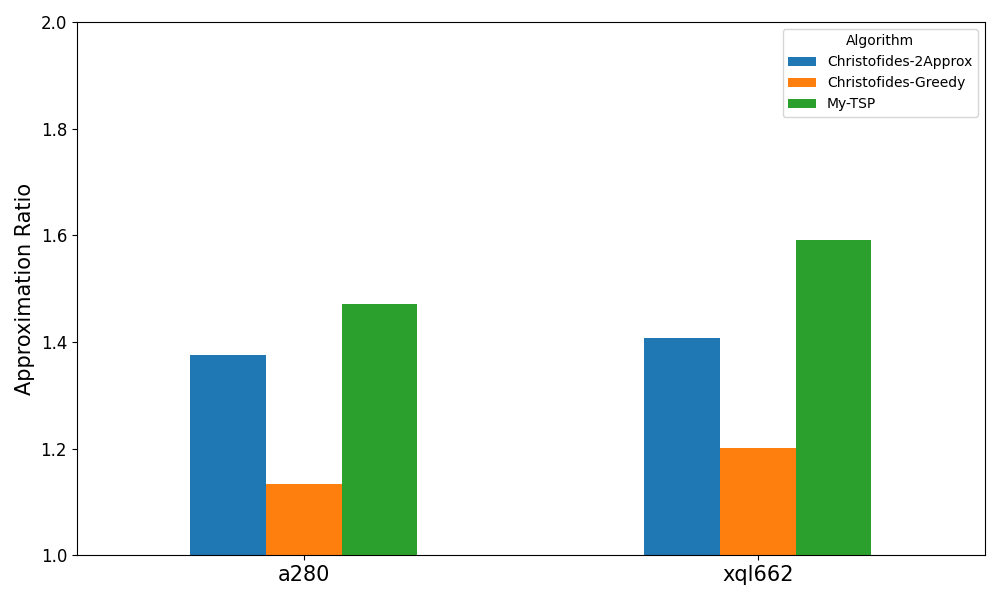
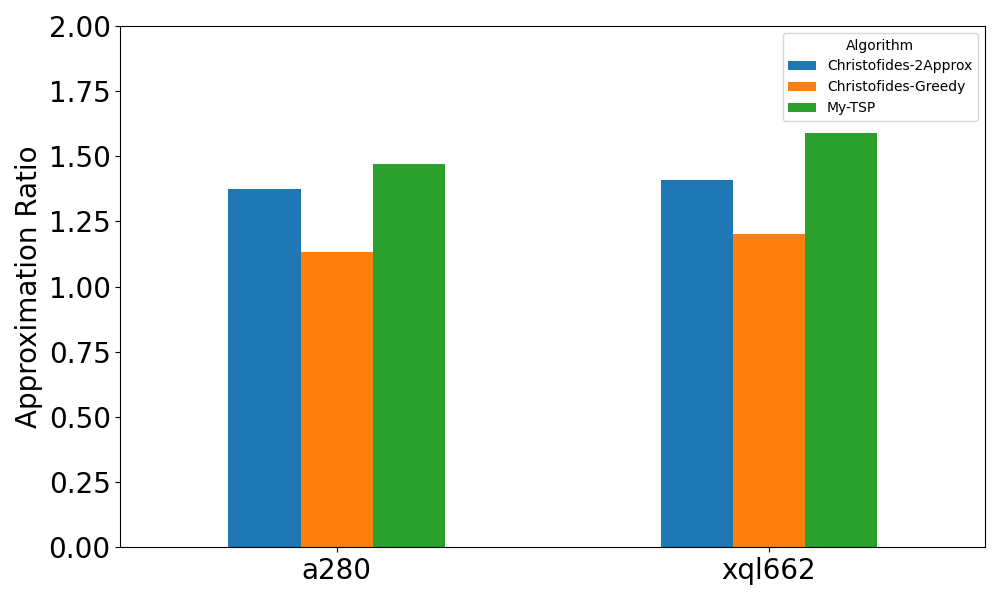
final graph

diff --git a/graph/plot.py b/graph/plot.py
@@ -43,16 +43,17 @@ def plot_grouped_bar(df, value_col, ylabel, filename, ylim=None, log_scale=False
 
     ax = pivot.plot(kind='bar', figsize=(10, 6))
     plt.ylabel(ylabel)
-    ax.set_ylabel(ylabel, fontsize=15)     # y축 라벨 폰트 크기
+    ax.set_ylabel(ylabel, fontsize=20)     # y축 라벨 폰트 크기
     ax.set_xlabel("")                      # x축 라벨 제거
-    ax.tick_params(axis='x', labelsize=15) # x축 인스턴스 라벨 크기
-    ax.tick_params(axis='y', labelsize=12)
+    ax.tick_params(axis='x', labelsize=20) # x축 인스턴스 라벨 크기
+    ax.tick_params(axis='y', labelsize=20)
     if ylim:
         plt.ylim(ylim)
     if log_scale:
         ax.set_yscale('log')
     plt.xticks(rotation=0)
-    plt.legend(title='Algorithm')
+    ax.get_legend().remove()
+
     plt.tight_layout()
     plt.savefig(os.path.join(output_dir, filename))
     plt.close()
@@ -73,5 +74,5 @@ def filter_and_plot(instances, exclude_heldkarp=False, mona=False, ylim_time=Non
 
 # ─────────────── 그래프 실행 ───────────────
 filter_and_plot(['test4', 'test18', 'test20', 'test22', 'test24'], ylim_time=(1e-2, 1e5), ylim_ratio=(0.0, 2.0), log_time=True)
-filter_and_plot(['a280', 'xql662'], exclude_heldkarp=True, ylim_time=(0, 200), ylim_ratio=(1.0, 2.0))
-filter_and_plot(['kz9976', 'mona-lisa_sample'], exclude_heldkarp=True, mona=True, ylim_time=(0, 40000))
+filter_and_plot(['a280', 'xql662'], exclude_heldkarp=True, ylim_time=(0, 200), ylim_ratio=(0.0, 2.0))
+filter_and_plot(['kz9976','mona-lisa_sample'], exclude_heldkarp=True, mona=True, ylim_time=(0, 40000))
